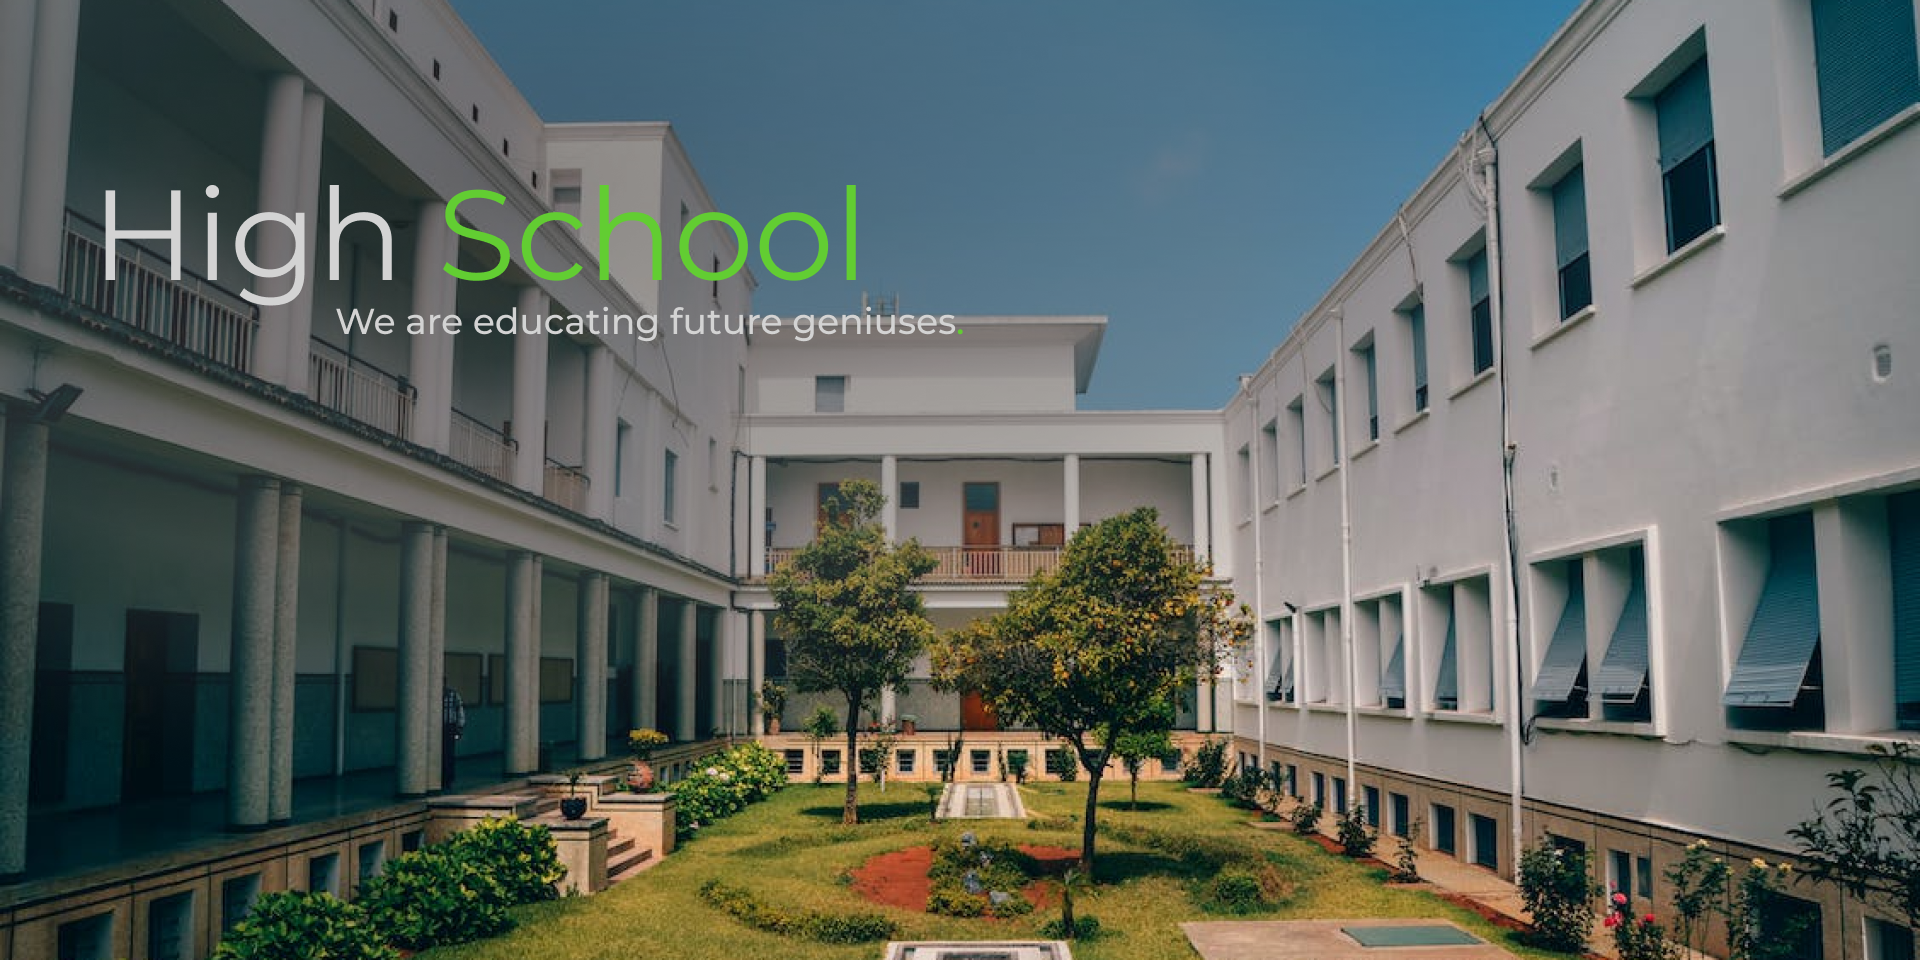
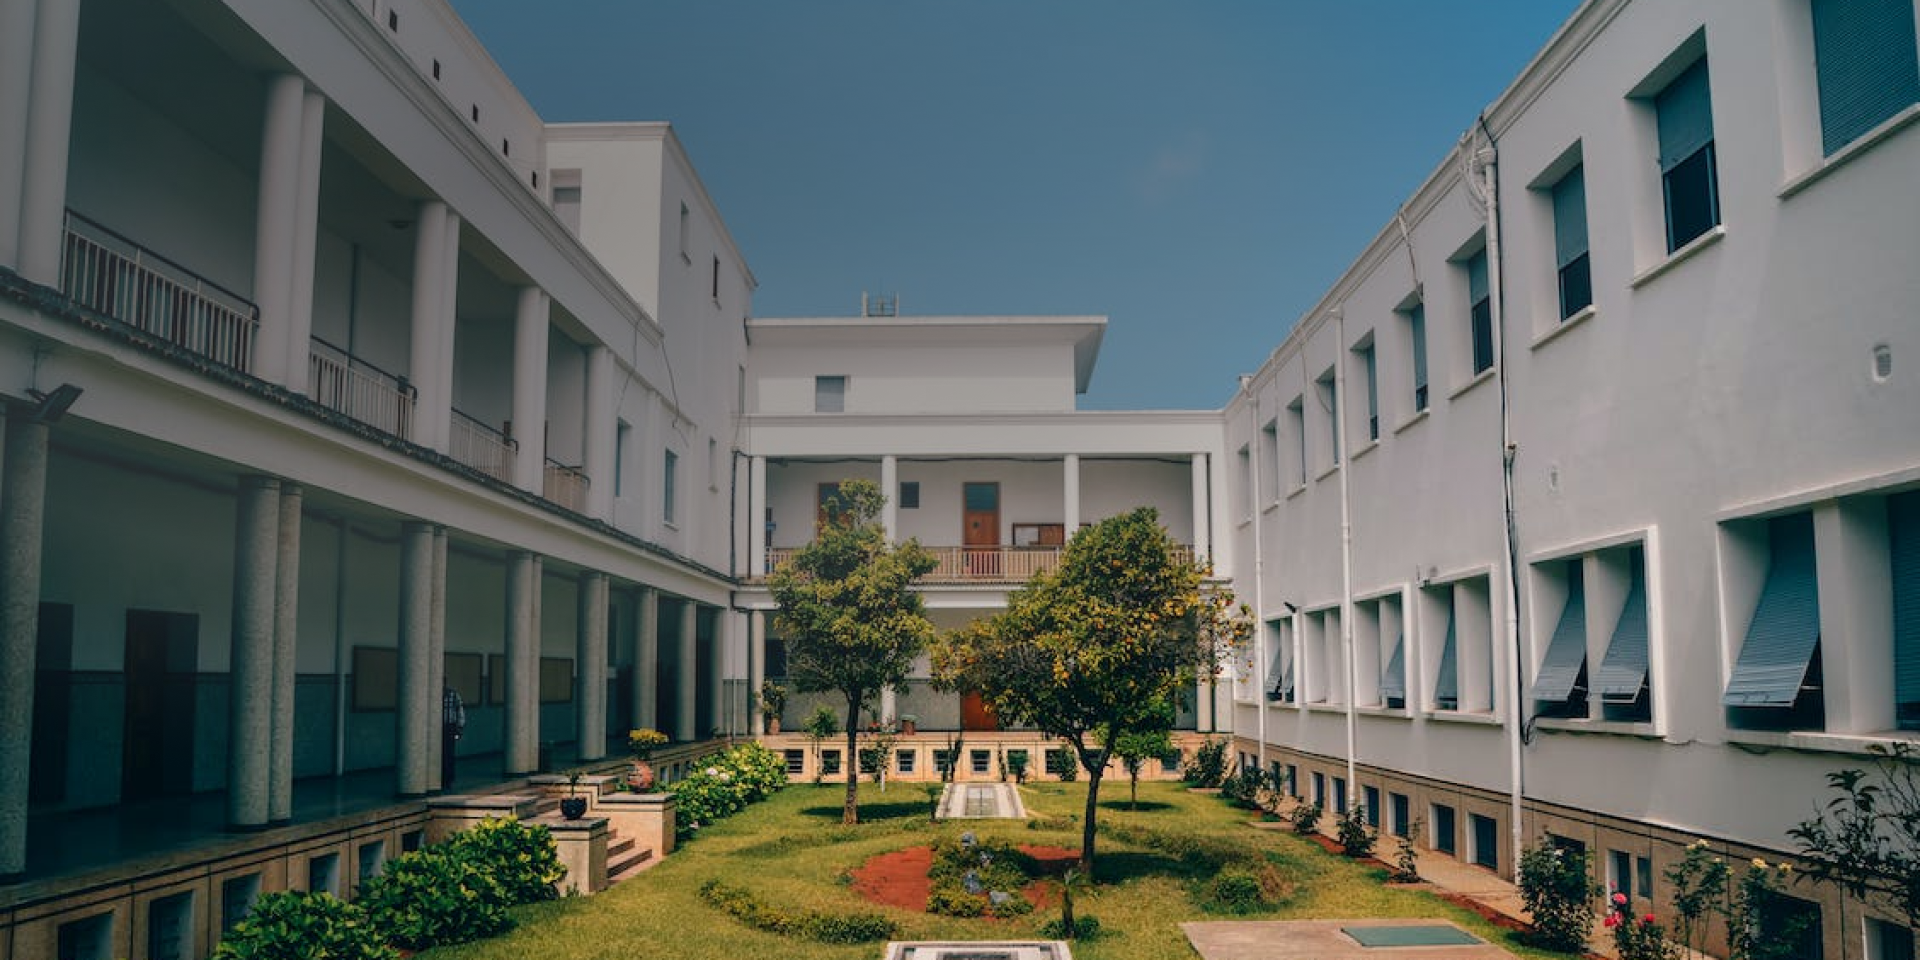
Make hero responsive

Changed region(s): [[0.0312, 0.1875, 0.5, 0.3438]]

diff --git a/client/src/Pages/Home/Home.module.css b/client/src/Pages/Home/Home.module.css
@@ -2,6 +2,55 @@
   height: 350vh;
 }
 
+.HeroTitle {
+  position: relative;
+  left: -45vh;
+  top: -10vh;
+}
+
+@media only screen and (max-width: 1500px) {
+  .SchoolTitle {
+    font-size: 3.8rem !important;
+    text-align: center !important;
+  }
+  .UnderTitle {
+    font-size: 1.2rem !important;
+    position: relative;
+    top: -4.5rem !important;
+    text-align: center !important;
+  }
+  .HeroTitle {
+    display: flex;
+    align-items: center;
+    justify-content: center;
+    flex-direction: column;
+    width: 800px;
+    position: relative;
+    top: -35vh;
+    left: 0;
+    right: 0;
+  }
+}
+
+.UnderTitle {
+  font-size: 5vh;
+  color: #d3d3d3;
+  display: flex;
+  position: relative;
+  top: -15vh;
+}
+
+.SchoolTitle {
+  display: flex;
+  flex-direction: row;
+  font-size: 15vh;
+  color: #d3d3d3;
+}
+
+.School {
+  color: #399f2e;
+}
+
 .HomeBackground {
   background-size: cover;
   background-image: url('../../assets/HighSchool.png');

diff --git a/client/src/Pages/Home/Home.tsx b/client/src/Pages/Home/Home.tsx
@@ -47,6 +47,13 @@ const Home = () => {
   return (
     <div className={styles.Home}>
       <div className={styles.HomeBackground}>
+        <div className={styles.HeroTitle}>
+          <div className={styles.SchoolTitle}>
+            <p>High </p>
+            <p className={styles.School}>School</p>
+          </div>
+          <p className={styles.UnderTitle}>We are educating future geniuses.</p>
+        </div>
         <img onClick={handleScrollDown} src={ExpandMore} alt='Expand more' />
       </div>
       <div className={styles.Container}>
